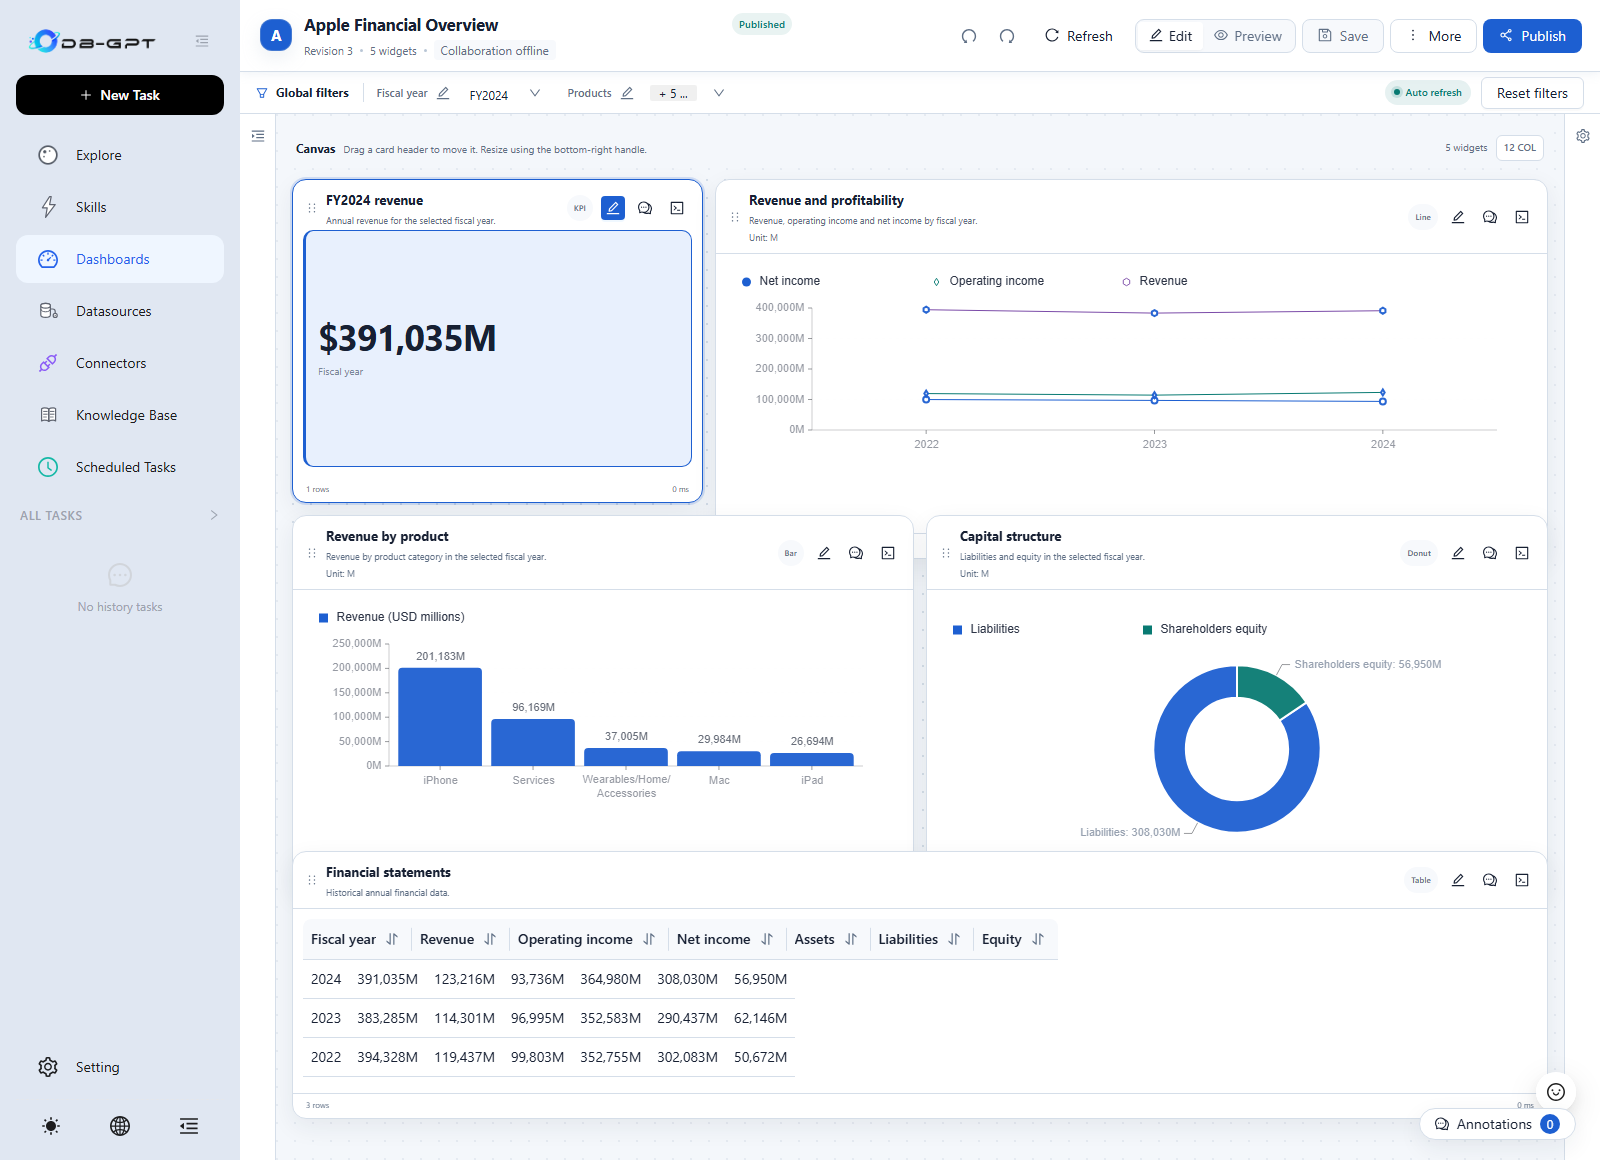
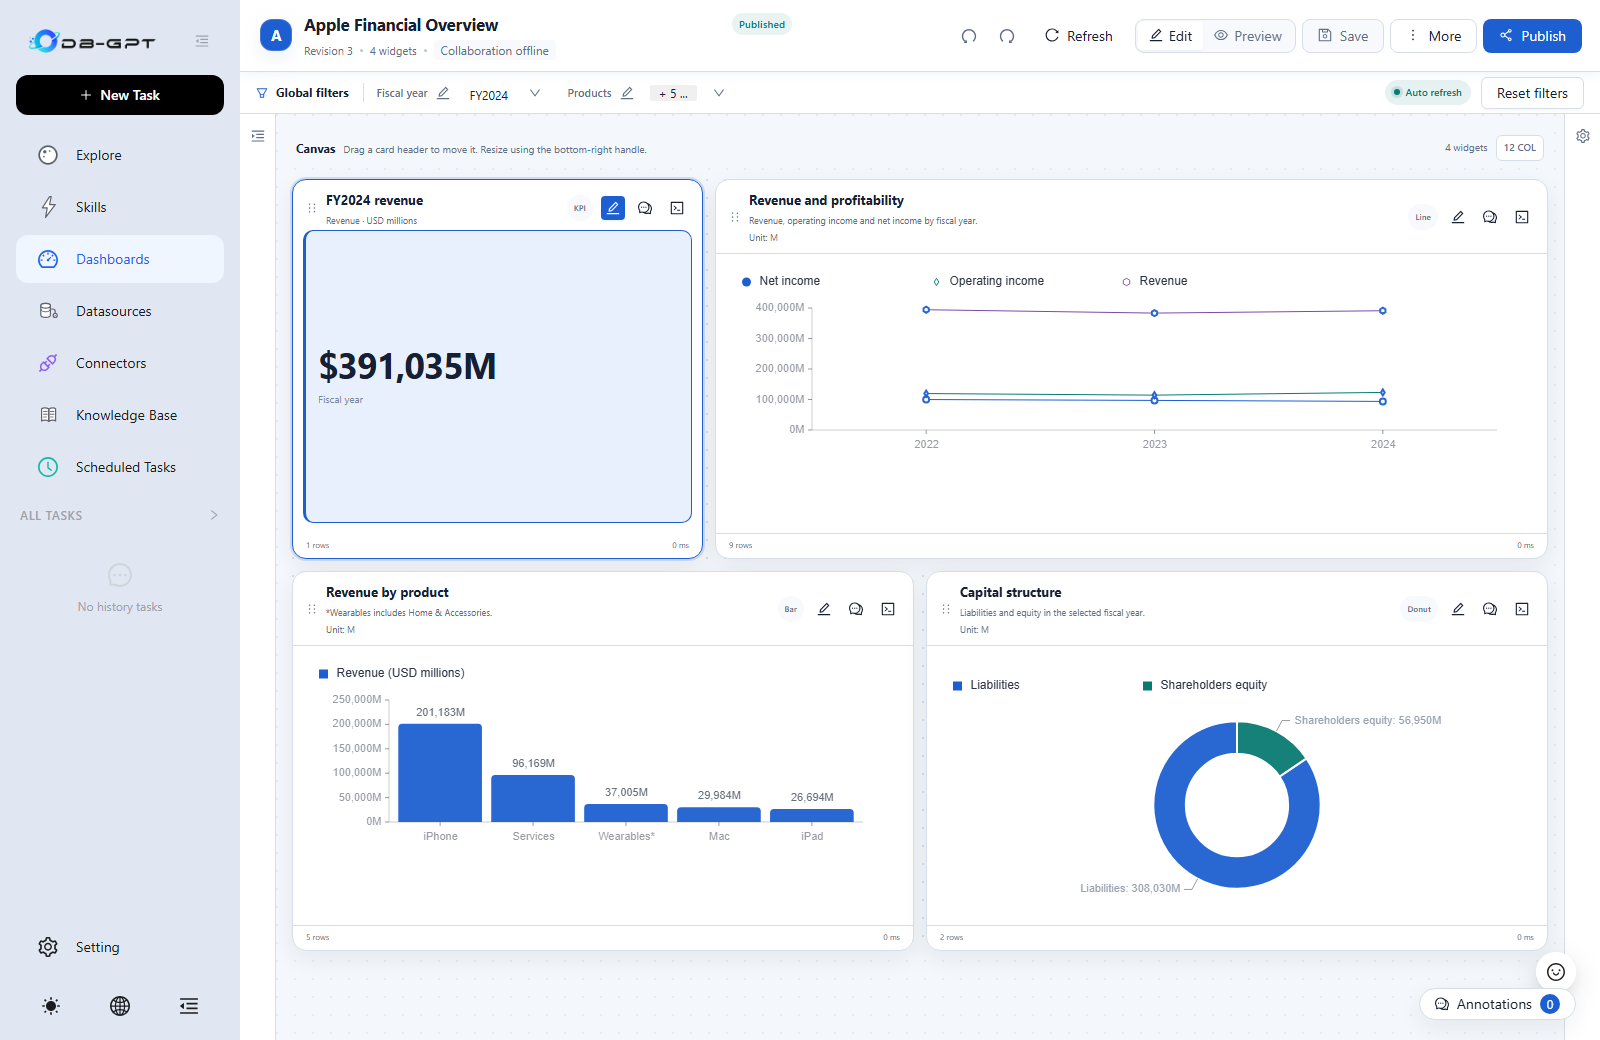
docs: correct spacing in English dashboard walkthrough

diff --git a/README.md b/README.md
@@ -3,15 +3,17 @@
 These images were captured from the frontend at [8de03431](https://github.com/jcsdxhe/DB-GPT/commit/8de034311e4e57feca99a9c9bfc03dfcb85bcec6).
 
 - The source is the repository's fixed Apple financial demo snapshot (FY2022–FY2024).
-- The compact layout, English dashboard titles, field labels and literal million-unit suffixes are presentation settings in the demo schema.
+- The four-widget layout, English dashboard titles, field labels and literal million-unit suffixes are presentation settings in the demo schema.
 - Remaining interface labels are translated in the capture browser for this English walkthrough. The images do not claim that full application localization has shipped.
 - API and AI responses use deterministic fixtures. These are workflow illustrations, not a fresh live model or backend validation run.
 - Application code and Chinese business-case documentation are unchanged. This branch only hosts PR illustrations.
 
 ## Images
 
-1. `01-workspace.png`: visual editor, chart widgets, financial table and global filters.
+1. `01-workspace.png`: visual editor, four aligned KPI/chart widgets and global filters.
 2. `02-ai-review.png`: annotations, proposed changes and explicit batch confirmation.
 3. `03-publish.png`: fixed snapshots and data-source-following links.
 
 All financial amounts are in USD millions. Public source references remain in the repository's Apple example.
+
+The final captures respect the renderer's seven-row chart minimum. Card bounds were checked for overlap and viewport clipping, and all three images were visually reviewed.
